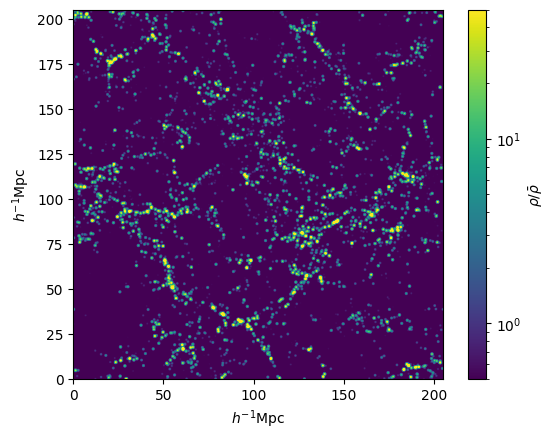
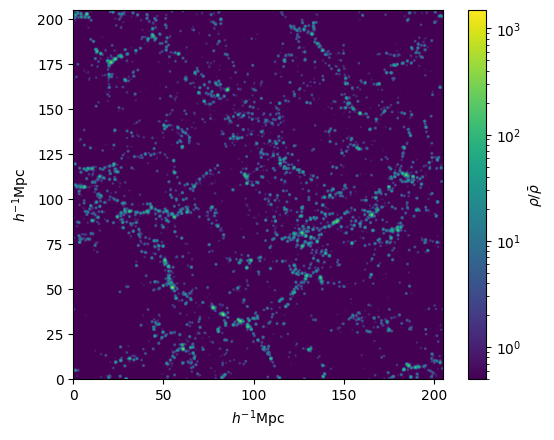
Updated TNG300 256

diff --git a/genimage.py b/genimage.py
@@ -20,7 +20,7 @@ save_df      = False #whether save the density field into a file
 # image parameters
 fout            = f'TNG300-3_Stars_{grid}.png'
 min_overdensity = 0.5      #minimum overdensity to plot
-max_overdensity = 50.0    #maximum overdensity to plot
+max_overdensity = 1500.0    #maximum overdensity to plot
 scale           = 'log' #'linear' or 'log'
 cmap            = 'viridis'
 
